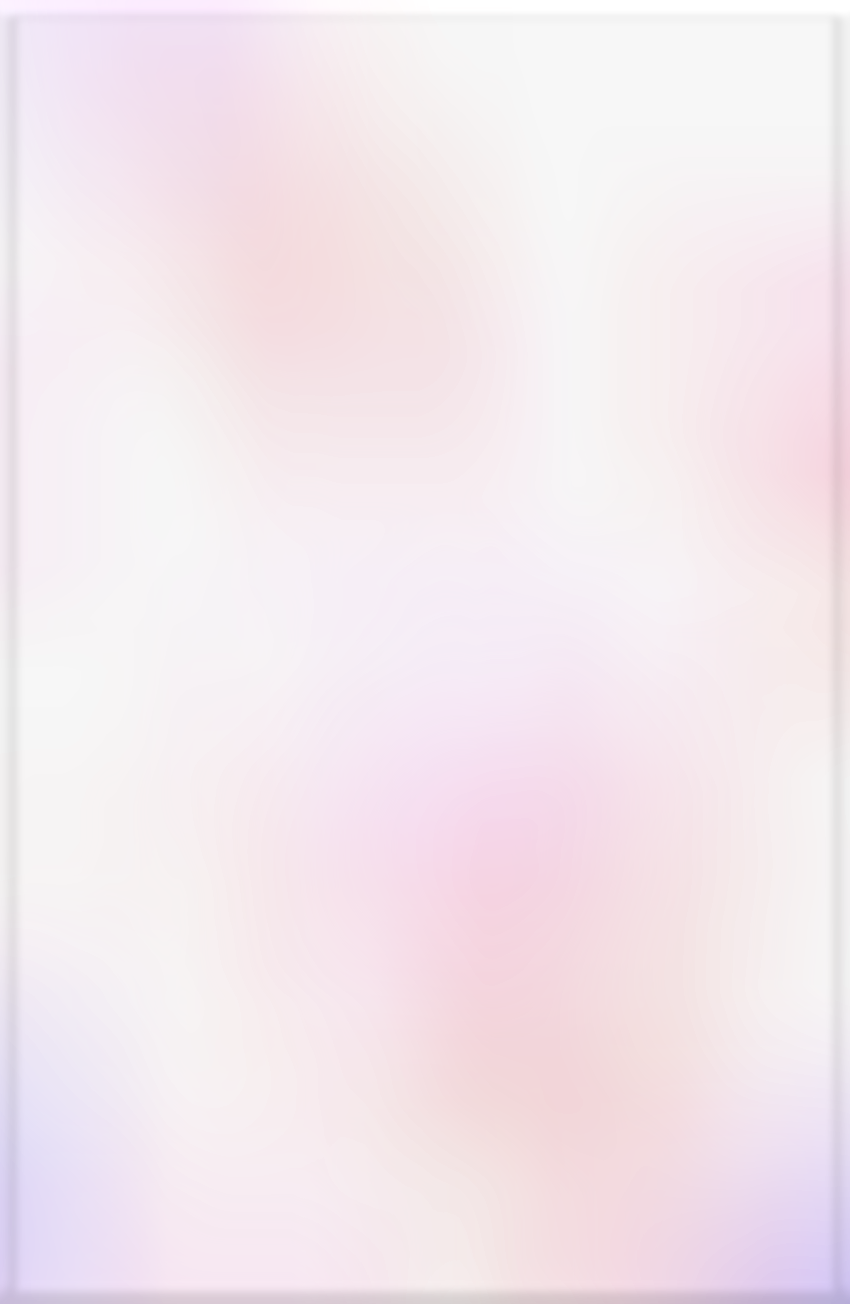
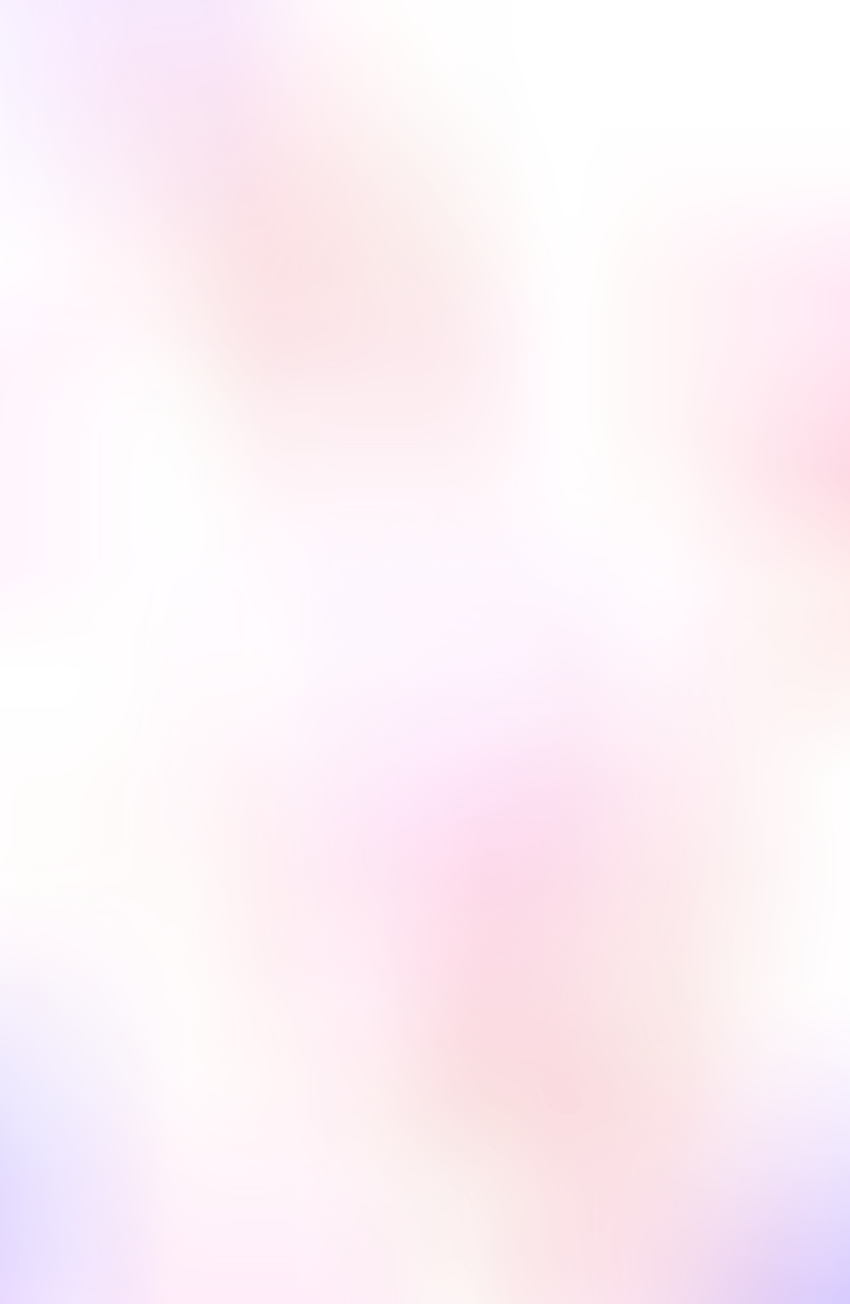
some addons

Changed region(s): [[0.0, 0.0, 1.0, 1.0]]

diff --git a/src/components/ProjectCard.vue b/src/components/ProjectCard.vue
@@ -1,20 +1,25 @@
 <template>
     <v-card class="card-class rounded-lg" elevation="12" max-width="300px" :image="projectImage" height="460px">
-        <v-card-title>{{ project.title }}</v-card-title>
+        <v-badge dot :color="getBadgeColor(project)" inline>
+            <v-card-title>{{ project.title }}</v-card-title>
+        </v-badge>
+
         <v-card-item class="divider-wrapper">
             <v-divider></v-divider>
         </v-card-item>
+
         <v-card-item class="tags-wrapper">
             <v-chip v-for="(tag, index) in project.tags" :key="index" class="ma-1 tags-class" size="x-small">
                 {{ tag }}
             </v-chip>
         </v-card-item>
+
         <v-card-subtitle>
         </v-card-subtitle>
-        <v-card-text>
 
+        <v-card-text>
             <v-tabs-window v-model="tab" class="fixed-tab-window">
-                <v-tabs-window-item value="one">
+                <v-tabs-window-item value="one" class="description-tab-container">
                     <p class="description-class">
                         {{ project.description }}
                     </p>
@@ -26,7 +31,7 @@
                     </v-card-actions>
                 </v-tabs-window-item>
 
-                <v-tabs-window-item class="carou-item2-class" value="two">
+                <v-tabs-window-item class="images-tab-container" value="two">
                     <v-carousel hide-delimiters height="286px">
                         <template v-slot:prev="{ props }">
                             <v-btn size="x-small" @click="props.onClick" class="mdi mdi-chevron-left carou-btn"></v-btn>
@@ -70,6 +75,30 @@ export default {
         openImage(image) {
             this.selectedImage = image;
             this.dialog = true;
+        },
+        getBadgeColor(project) {
+            const today = new Date();
+            const startDate = new Date(project.beginDate);
+
+            const endDate = project.endDate ? new Date(project.endDate) : null;
+
+            const elapsedT = Math.abs(Math.floor(((startDate.getTime() - today.getTime()) / (1000 * 60 * 60 * 24)))) > 180
+            // console.log(((startDate.getTime() - today.getTime())/(1000 * 60 * 60 * 24) > 60))
+
+            // Sleeping projects (hasn't started yet)
+            if (elapsedT && !endDate) {
+                return 'grey';
+            }
+
+            // Ended projects
+            if (endDate && endDate < today) {
+                return 'rgba(3,180,255,.6)';
+            }
+
+            // Active projects (no end date or future end date, and already started)
+            if (startDate <= today) {
+                return 'rgba(0,200,0,.6)';
+            }
         }
     },
     computed: {
@@ -91,8 +120,6 @@ export default {
 }
 
 .card-class {
-    height: 450px;
-    width: 300px;
     border: solid rgba(0, 0, 0, 0.192) 2px;
 }
 
@@ -115,13 +142,22 @@ export default {
     overflow: hidden;
 }
 
+.v-card-text {
+    border: rgb(206, 206, 206, .2) 3px double;
+    margin: 5px;
+    border-radius: 5px;
+    padding: 0 !important;
+}
+
 .v-carousel-item {
     cursor: pointer;
 }
 
-.v-card-text {
-    border: rgb(206, 206, 206) 1px solid;
-    margin: 5px;
+.description-tab-container {
+    padding: 1rem;
+}
+
+.images-tab-container {
     border-radius: 5px;
 }
 
@@ -159,5 +195,17 @@ export default {
     max-height: 90%;
     object-fit: contain;
     /* Ensures the whole image fits */
+}
+</style>
+<style>
+.v-badge {
+    width: 100%;
+}
+
+.v-badge--inline .v-badge__wrapper {
+    width: 100%;
+    justify-content: space-between !important;
+    margin: 0px !important;
+    padding: 0px 10px 0px 0px;
 }
 </style>

diff --git a/src/views/Projects.vue b/src/views/Projects.vue
@@ -22,8 +22,10 @@ const projects = computed(() => projectStore.projects);
     flex-wrap: wrap;
     justify-content: center;
     gap: 3rem;
-    padding: 1rem;
-    margin: 5rem 0rem;
+    padding: 5rem 1rem;
+    margin-top: 48px;
+    background-image: url(./assets/img/test_bg_img.png) !important;
+    background-size: cover;
 }
 
 .project-card-wrapper {
@@ -31,6 +33,11 @@ const projects = computed(() => projectStore.projects);
 
     width: 300px;
     /* Maintain 2:3 ratio, max height 100vh */
-    height: 450px;
+    height: 460px;
+}
+</style>
+<style>
+.v-card__image {
+    /* background-image: url('./assets/img/galaxy.jpg'); */
 }
 </style>

diff --git a/index.html b/index.html
@@ -4,7 +4,7 @@
     <meta charset="UTF-8" />
     <link rel="icon" type="image/svg+xml" href="rb_favicon.svg" />
     <meta name="viewport" content="width=device-width, initial-scale=1.0" />
-    <title>¸„.-•~ 𝓡𝔟𝓸𝔱 ~•-.„¸</title>
+    <title>• B𝓸𝔱</title>
     <script type="module" src="/src/main.js"></script>
   </head>
   <body>

diff --git a/src/App.vue b/src/App.vue
@@ -20,9 +20,9 @@
           </v-btn>
           <v-btn to="/projects">Explore</v-btn>
           <v-btn to="/contact">Contact</v-btn>
-          
+
           <v-btn icon="mdi-magnify"></v-btn>
-          
+
           <v-btn icon="mdi-dots-vertical"></v-btn>
         </template>
       </v-app-bar>

diff --git a/src/plugins/vuetify.js b/src/plugins/vuetify.js
@@ -10,6 +10,7 @@ const myCustomLightTheme = {
     dark: false,
     colors: {
         background: '#FFFFFF',
+        'background-opacity': 0,
         surface: '#FFFFFF',
         'surface-bright': '#FFFFFF',
         'surface-light': '#EEEEEE',
